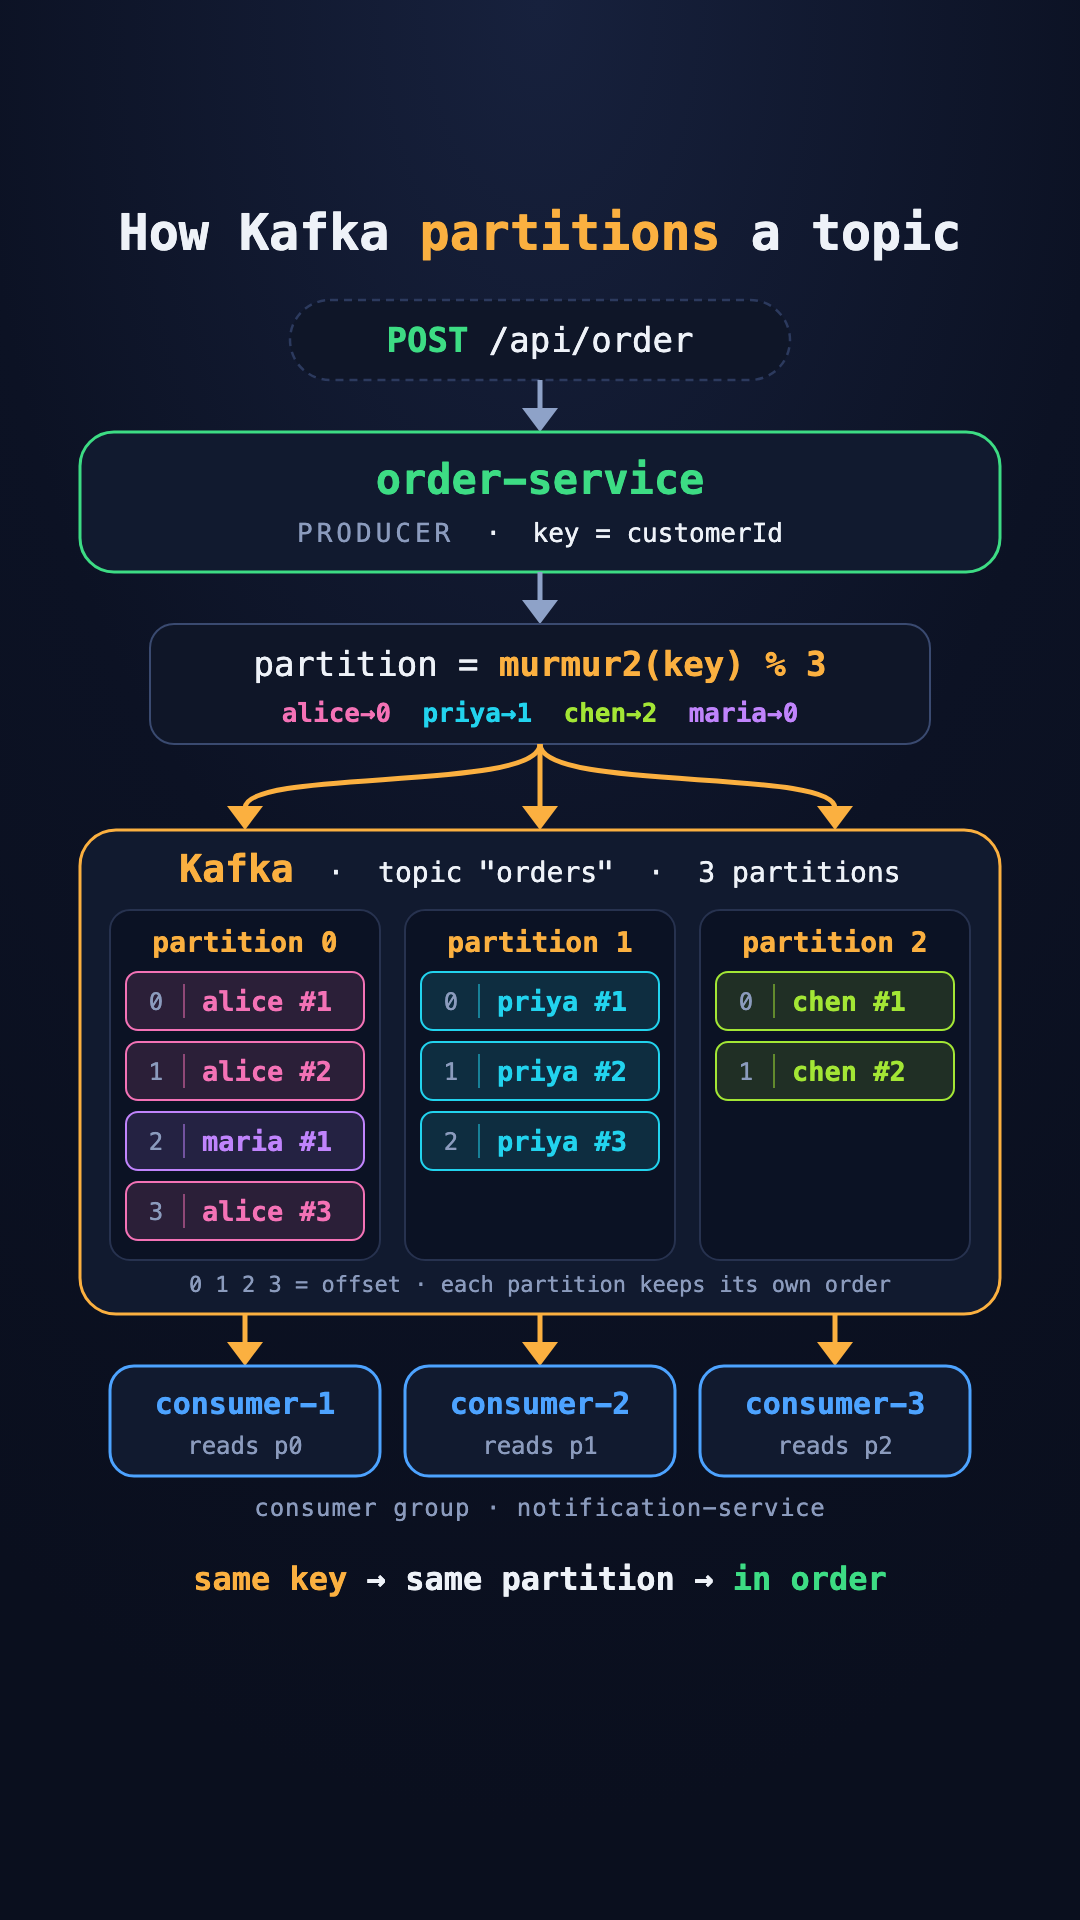
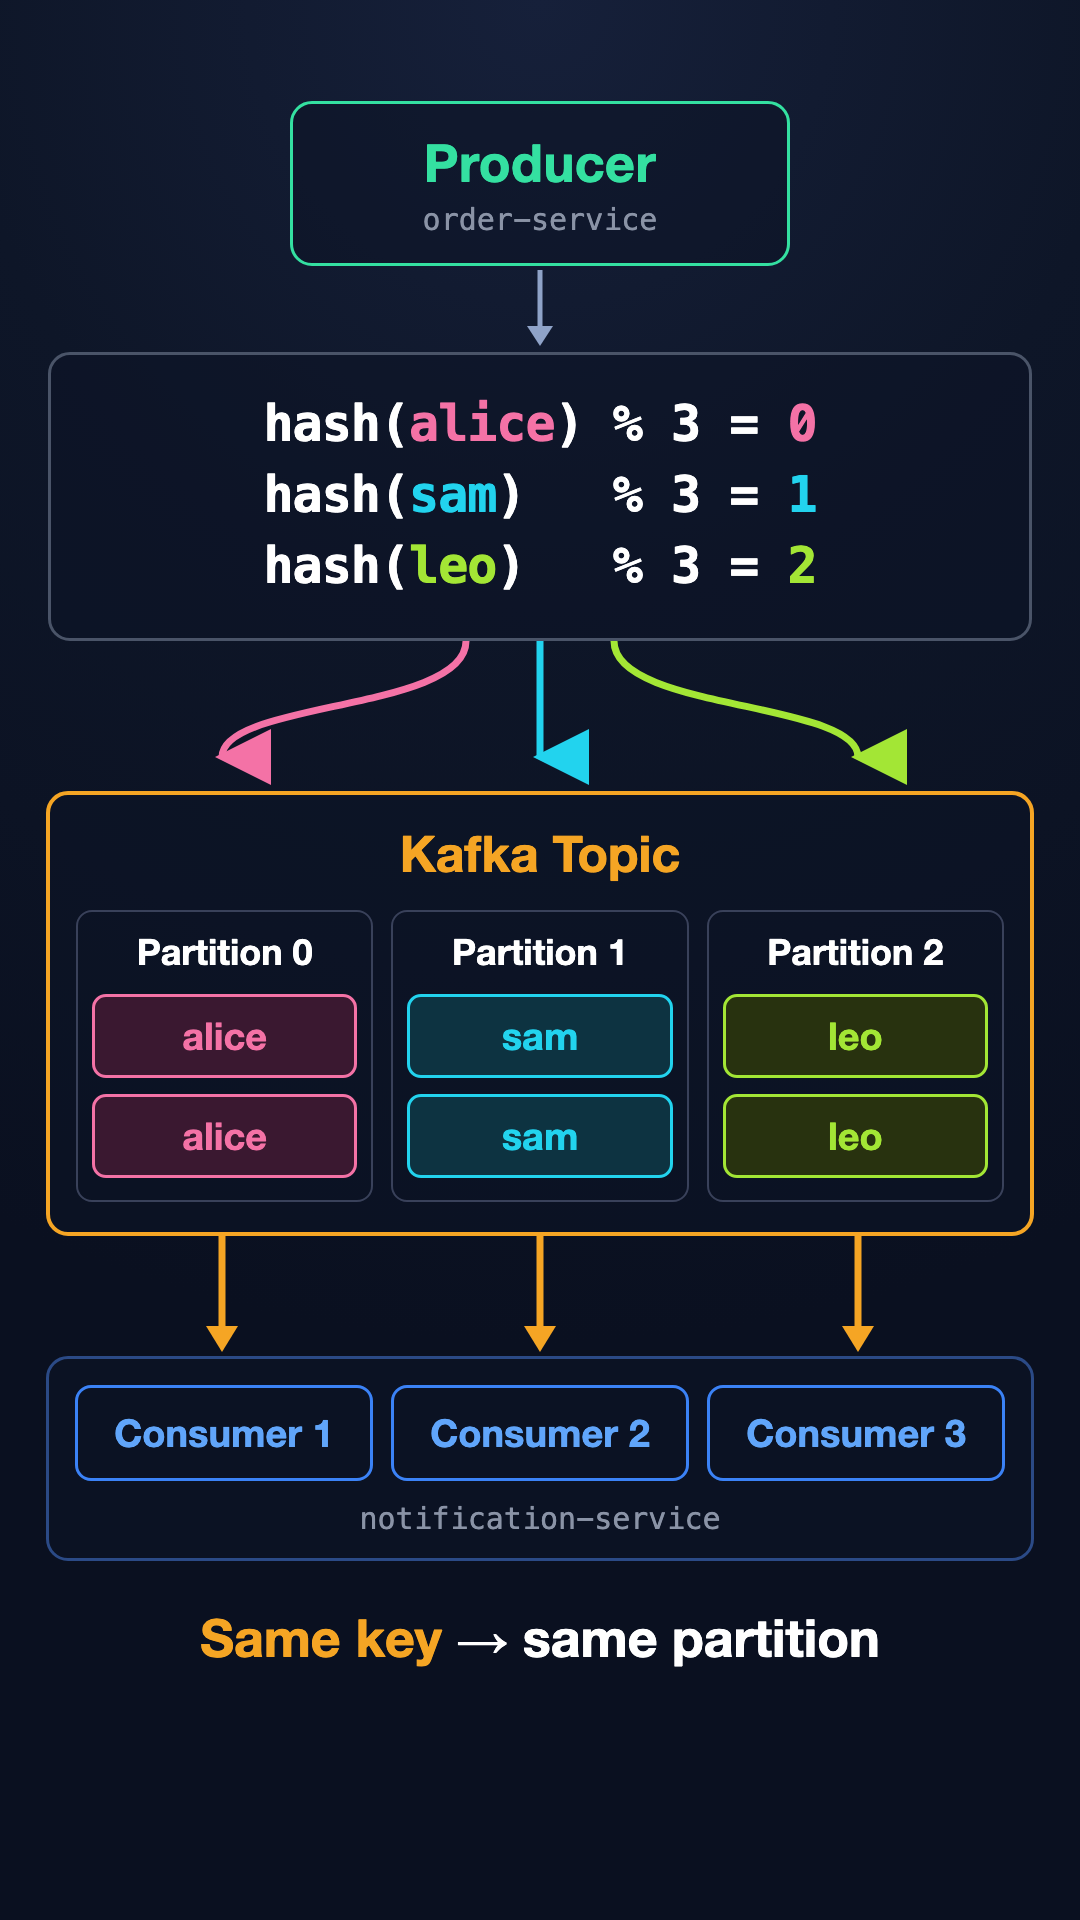
Rename demo customers to sam and leo; add Kafka flow diagram

diff --git a/order-service/src/index.js b/order-service/src/index.js
@@ -76,14 +76,14 @@ async function placeOrder({ customerId, item, amount, keyed = true }) {
 /** The scripted burst the reel is built around. */
 const SCRIPT = [
   { customerId: "alice", item: "Margherita Pizza", amount: 499 },
-  { customerId: "priya", item: "Sushi Platter", amount: 899 },
-  { customerId: "chen", item: "Beef Tacos", amount: 349 },
+  { customerId: "sam", item: "Sushi Platter", amount: 899 },
+  { customerId: "leo", item: "Beef Tacos", amount: 349 },
   { customerId: "alice", item: "Garlic Bread", amount: 149 },
   { customerId: "maria", item: "Cheeseburger", amount: 399 },
-  { customerId: "priya", item: "Miso Ramen", amount: 549 },
+  { customerId: "sam", item: "Miso Ramen", amount: 549 },
   { customerId: "alice", item: "Tiramisu", amount: 249 },
-  { customerId: "chen", item: "Spring Rolls", amount: 199 },
-  { customerId: "priya", item: "Green Tea", amount: 99 },
+  { customerId: "leo", item: "Spring Rolls", amount: 199 },
+  { customerId: "sam", item: "Green Tea", amount: 99 },
 ];
 
 const app = express();

diff --git a/verifier/src/index.js b/verifier/src/index.js
@@ -15,7 +15,7 @@ import { murmur2, partitionFor, REFERENCE_VECTORS } from "./partitioner.js";
 const brokers = [process.env.KAFKA_BROKER ?? "localhost:9092"];
 const TOPIC = `verify-${Date.now()}`;
 const PARTITIONS = 3;
-const CUSTOMERS = ["alice", "priya", "chen", "maria", "omar", "yuki"];
+const CUSTOMERS = ["alice", "sam", "leo", "maria", "omar", "yuki"];
 const ORDERS_EACH = 5;
 
 let failed = 0;

diff --git a/README.md b/README.md
@@ -32,7 +32,7 @@ The same picture, as text:
               ▼                     ▼                     ▼
      ┌─────────────────┐   ┌─────────────────┐   ┌─────────────────┐
      │   partition 0   │   │   partition 1   │   │   partition 2   │   topic "orders"
-     │  alice · maria  │   │      priya      │   │      chen       │
+     │  alice · maria  │   │       sam       │   │       leo       │
      └────────┬────────┘   └────────┬────────┘   └────────┬────────┘
               ▼                     ▼                     ▼
          consumer A            consumer B            consumer C       group "notification-service"
@@ -112,7 +112,7 @@ Each partition is an append-only log with its own counter. alice's orders get of
 **5. The consumer group splits the partitions.**
 The three `notification-service` containers share one `groupId`. Kafka assigns every partition to **exactly one** of them. consumer-1 reads partition 0 from offset 0 upward, in order. It never sees partition 1 or 2.
 
-**6. Put together:** alice → always partition 0 → always the same consumer → always in the order she placed them. Meanwhile priya and chen are processed in parallel, by other consumers.
+**6. Put together:** alice → always partition 0 → always the same consumer → always in the order she placed them. Meanwhile sam and leo are processed in parallel, by other consumers.
 
 ### What partitioning does *not* promise
 
@@ -212,20 +212,20 @@ The response is built from the **broker's own acknowledgements** — nothing her
 │    offset 3   alice #3       Tiramisu                                │
 │                                                                      │
 │ partition 1  ▓▓▓░░░░░░░  3 msg                                       │
-│    offset 0   priya #1       Sushi Platter                           │
-│    offset 1   priya #2       Miso Ramen                              │
-│    offset 2   priya #3       Green Tea                               │
+│    offset 0   sam #1         Sushi Platter                           │
+│    offset 1   sam #2         Miso Ramen                              │
+│    offset 2   sam #3         Green Tea                               │
 │                                                                      │
 │ partition 2  ▓▓░░░░░░░░  2 msg                                       │
-│    offset 0   chen #1        Beef Tacos                              │
-│    offset 1   chen #2        Spring Rolls                            │
+│    offset 0   leo #1         Beef Tacos                              │
+│    offset 1   leo #2         Spring Rolls                            │
 │                                                                      │
 ├──────────────────────────────────────────────────────────────────────┤
 │ Per-customer ordering                                                │
 │                                                                      │
 │   ✅ alice     3 orders  all on partition 0 — order kept             │
-│   ✅ priya     3 orders  all on partition 1 — order kept             │
-│   ✅ chen      2 orders  all on partition 2 — order kept             │
+│   ✅ sam       3 orders  all on partition 1 — order kept             │
+│   ✅ leo       2 orders  all on partition 2 — order kept             │
 │   ✅ maria     1 order   all on partition 0 — order kept             │
 │                                                                      │
 │   ✅ partitioner.js predicted 9/9 partitions correctly               │
@@ -244,11 +244,11 @@ p0 offset 0   consumer-3  key=alice      → alice #1 Margherita Pizza
 p0 offset 1   consumer-3  key=alice      → alice #2 Garlic Bread
 p0 offset 2   consumer-3  key=maria      → maria #1 Cheeseburger
 p0 offset 3   consumer-3  key=alice      → alice #3 Tiramisu
-p1 offset 0   consumer-2  key=priya      → priya #1 Sushi Platter
-p1 offset 1   consumer-2  key=priya      → priya #2 Miso Ramen
-p1 offset 2   consumer-2  key=priya      → priya #3 Green Tea
-p2 offset 0   consumer-1  key=chen       → chen #1 Beef Tacos
-p2 offset 1   consumer-1  key=chen       → chen #2 Spring Rolls
+p1 offset 0   consumer-2  key=sam      → sam #1 Sushi Platter
+p1 offset 1   consumer-2  key=sam      → sam #2 Miso Ramen
+p1 offset 2   consumer-2  key=sam      → sam #3 Green Tea
+p2 offset 0   consumer-1  key=leo       → leo #1 Beef Tacos
+p2 offset 1   consumer-1  key=leo       → leo #2 Spring Rolls
 ```
 
 ---
@@ -285,8 +285,8 @@ curl -XPOST "localhost:3000/api/demo?keyed=false"
 │ Per-customer ordering                                                │
 │                                                                      │
 │   ❌ alice     3 orders  split across p0, p2 — ORDER LOST            │
-│   ❌ priya     3 orders  split across p0, p1, p2 — ORDER LOST        │
-│   ❌ chen      2 orders  split across p0, p2 — ORDER LOST            │
+│   ❌ sam       3 orders  split across p0, p1, p2 — ORDER LOST        │
+│   ❌ leo       2 orders  split across p0, p2 — ORDER LOST            │
 │   ⚠ maria     1 order   on p2 by luck — no key, no guarantee        │
 └──────────────────────────────────────────────────────────────────────┘
 
@@ -381,8 +381,8 @@ Same key, same hash — but `% 6` instead of `% 3`, so alice goes to **partition
 
 ```
 │   ✅ alice     3 orders  all on partition 3 — order kept             │
-│   ✅ priya     3 orders  all on partition 4 — order kept             │
-│   ✅ chen      2 orders  all on partition 5 — order kept             │
+│   ✅ sam       3 orders  all on partition 4 — order kept             │
+│   ✅ leo       2 orders  all on partition 2 — order kept             │
 │   ✅ maria     1 order   all on partition 3 — order kept             │
 │                                                                      │
 │   ✅ partitioner.js predicted 9/9 partitions correctly               │
@@ -390,8 +390,8 @@ Same key, same hash — but `% 6` instead of `% 3`, so alice goes to **partition
 
 Two lessons in that table:
 
-1. **Every key moved.** On a fresh topic that's harmless. On a live topic, alice's old orders stay in partition 0 while her new ones go to partition 3. For a while two consumers hold her events, and ordering across the switch is gone. That's why you choose the partition count up front, with room to grow.
-2. **Partitions 0, 1 and 2 got nothing.** Four customers can't fill six partitions. More partitions only help when there are enough distinct keys to spread across them.
+1. **Almost every key moved.** alice went 0 → 3, sam 1 → 4, maria 0 → 3. leo happened to land on 2 again, pure coincidence of the arithmetic, and not something you can plan around. On a fresh topic that's harmless. On a live topic, alice's old orders stay in partition 0 while her new ones go to partition 3. For a while two consumers hold her events, and ordering across the switch is gone. That's why you choose the partition count up front, with room to grow.
+2. **Partitions 0, 1 and 5 got nothing.** Four customers can't fill six partitions. More partitions only help when there are enough distinct keys to spread across them.
 
 Put it back with `docker compose down && docker compose up --build`.
 
@@ -426,13 +426,13 @@ docker compose run --rm verifier
 2 · The broker agrees with partitioner.js
 
   ✅ predicted partition === broker-acked partition for all 30 messages
-       alice→p0  priya→p1  chen→p2  maria→p0  omar→p1  yuki→p0
+       alice→p0  sam→p1  leo→p2  maria→p0  omar→p1  yuki→p0
 
 3 · Same key always lands on the same partition
 
   ✅ "alice" — 5 messages, 1 distinct partition
-  ✅ "priya" — 5 messages, 1 distinct partition
-  ✅ "chen" — 5 messages, 1 distinct partition
+  ✅ "sam" — 5 messages, 1 distinct partition
+  ✅ "leo" — 5 messages, 1 distinct partition
   ✅ "maria" — 5 messages, 1 distinct partition
   ✅ "omar" — 5 messages, 1 distinct partition
   ✅ "yuki" — 5 messages, 1 distinct partition
@@ -441,8 +441,8 @@ docker compose run --rm verifier
 
   ✅ read back all 30 messages
   ✅ "alice" — offsets ascending ⇒ seq 1..5 in order
-  ✅ "priya" — offsets ascending ⇒ seq 1..5 in order
-  ✅ "chen" — offsets ascending ⇒ seq 1..5 in order
+  ✅ "sam" — offsets ascending ⇒ seq 1..5 in order
+  ✅ "leo" — offsets ascending ⇒ seq 1..5 in order
   ✅ "maria" — offsets ascending ⇒ seq 1..5 in order
   ✅ "omar" — offsets ascending ⇒ seq 1..5 in order
   ✅ "yuki" — offsets ascending ⇒ seq 1..5 in order
@@ -455,7 +455,7 @@ docker compose run --rm verifier
 6 · Changing the partition count remaps keys (the one-way door)
 
   ✅ 6/6 keys move partition when 3 → 4
-       alice: p0→p1  priya: p1→p2  chen: p2→p1  maria: p0→p3  omar: p1→p3  yuki: p0→p1
+       alice: p0→p1  sam: p1→p2  leo: p2→p0  maria: p0→p3  omar: p1→p3  yuki: p0→p1
 
   ALL CHECKS PASSED — verified against a live Kafka broker.
 ```
